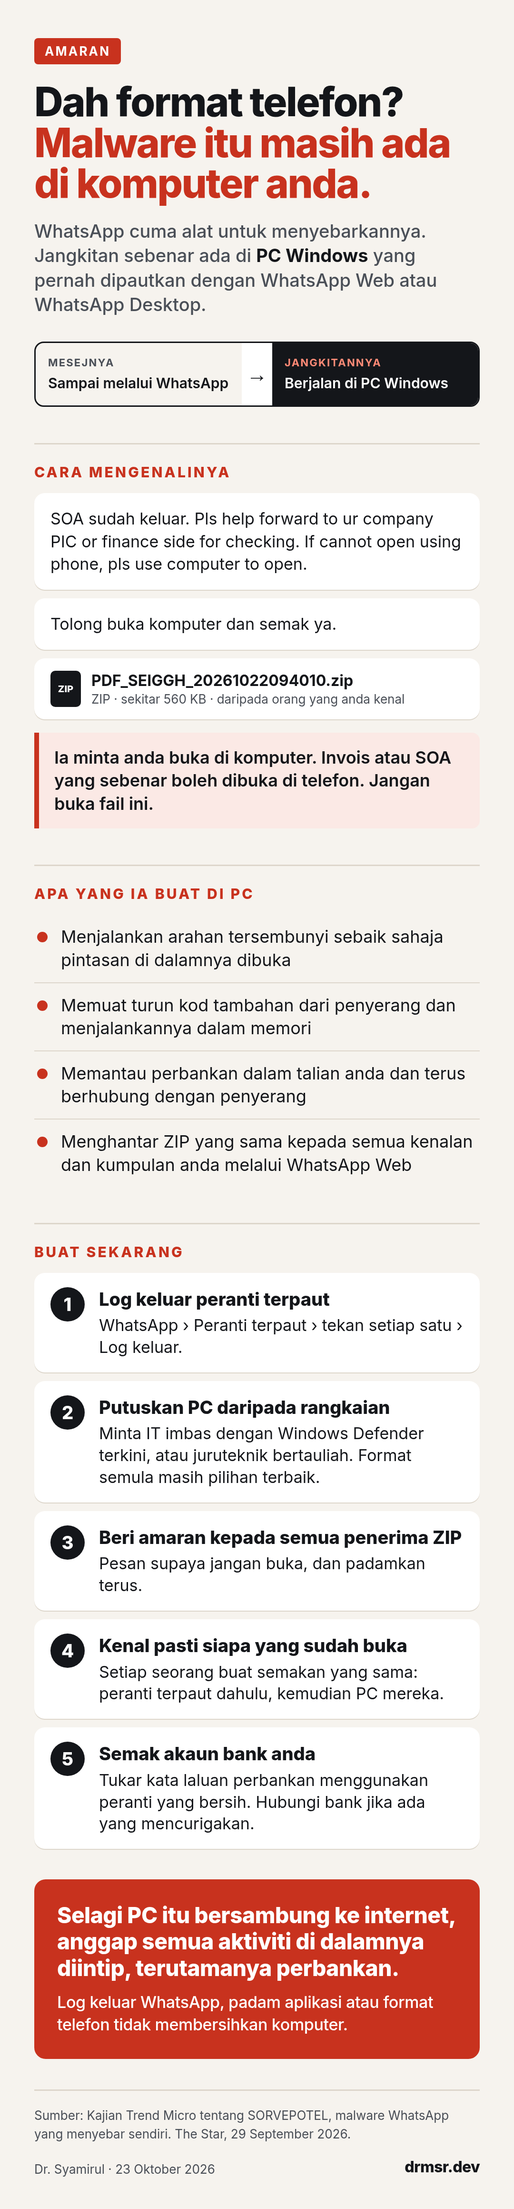
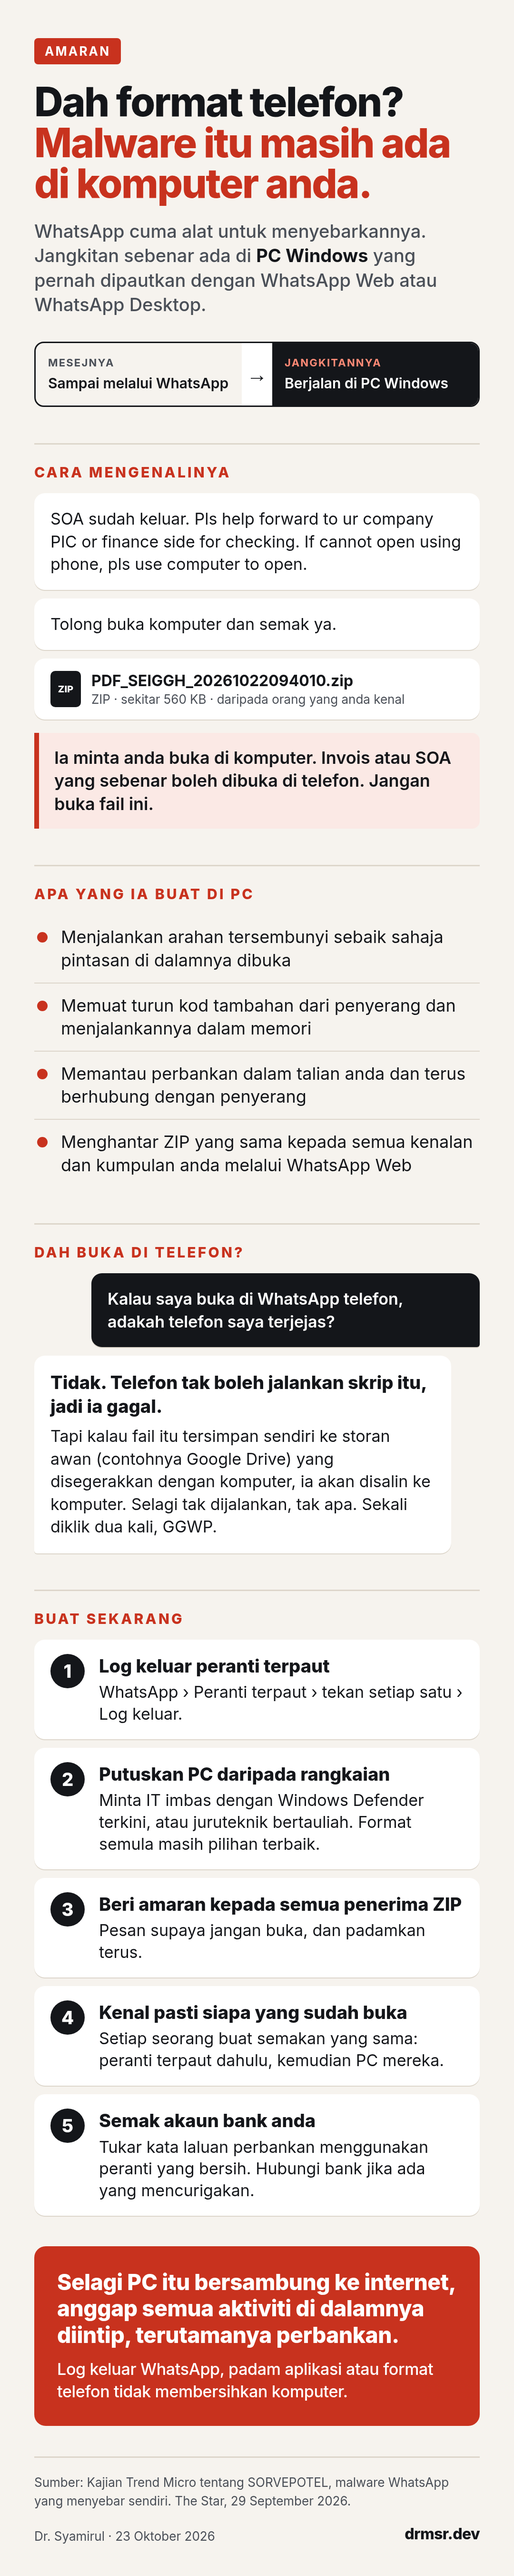
Advisory: add phone Q&A (EN + BM) and refresh infographics
Claude-Session: https://claude.ai/code/session_01UKtv761YuUTM2Gfy5BTL3m

Changed region(s): [[0.0611, 0.0, 0.9472, 0.9937], [0.825, 0.59, 0.8556, 0.6211]]

diff --git a/content/posts/whatsapp-zip-malware-advisory.md b/content/posts/whatsapp-zip-malware-advisory.md
@@ -11,7 +11,7 @@ thumbnail: null
 ---
 
 # WhatsApp ZIP malware: it lives on your computer, not your phone
-![Advisory infographic: WhatsApp ZIP malware lives on the Windows computer, with five steps to take now](https://drmsr.dev/images/advisory/whatsapp-zip-malware-en.png)
+![Advisory infographic: WhatsApp ZIP malware lives on the Windows computer, with five steps to take now](https://drmsr.dev/images/advisory/whatsapp-zip-malware-en.png?v=2)
 
 ## If you opened the ZIP, cleaning your phone does not fix it
 
@@ -37,9 +37,11 @@ Security researchers call this malware SORVEPOTEL. Inside the ZIP is a Windows s
 
 Then it spreads. If WhatsApp Web or WhatsApp Desktop is signed in on that computer, the malware uses it to send the same ZIP to every contact and group. This is why the message seems to come from people you trust: their computers sent it without them knowing.
 
-## What about my phone?
+## Q&A: I opened it in WhatsApp on my phone. Is my phone affected?
 
-Opening the ZIP on a phone does nothing by itself, because the harmful part only runs on Windows. The danger is a computer that has WhatsApp Web or WhatsApp Desktop linked to your account. One catch: if you saved the file from your phone to a cloud drive, a laptop that syncs that drive can still receive it.
+No. The file will fail on a phone, because a phone cannot run that script. It arrives disguised as a ZIP, a VBS file or a PDF.
+
+But if your phone saved it automatically to a cloud drive (Google Drive, for example) and your computer syncs with that drive, the file gets copied onto your computer. As long as nobody runs it there, nothing happens. Once someone double-clicks it on the computer, it is too late, and everything above applies.
 
 ## What to do now
 
@@ -51,7 +53,7 @@ Opening the ZIP on a phone does nothing by itself, because the harmful part only
 
 ## Bahasa Melayu
 
-![Infografik amaran: malware ZIP WhatsApp kekal di komputer Windows, dengan lima langkah yang perlu diambil](https://drmsr.dev/images/advisory/whatsapp-zip-malware-ms.png)
+![Infografik amaran: malware ZIP WhatsApp kekal di komputer Windows, dengan lima langkah yang perlu diambil](https://drmsr.dev/images/advisory/whatsapp-zip-malware-ms.png?v=2)
 
 ## Kalau anda sudah buka fail ZIP itu, bersihkan telefon sahaja tidak cukup
 
@@ -77,9 +79,11 @@ Penyelidik keselamatan menamakan malware ini SORVEPOTEL. Di dalam ZIP itu ada sa
 
 Selepas itu ia menyebarkan dirinya. Jika WhatsApp Web atau WhatsApp Desktop sedang log masuk di komputer itu, malware ini menggunakannya untuk menghantar ZIP yang sama kepada semua kenalan dan kumpulan. Sebab itulah mesej ini nampak seperti datang daripada orang yang anda percaya: komputer merekalah yang menghantarnya tanpa mereka sedar.
 
-## Telefon saya macam mana?
+## Soal jawab: Saya buka di WhatsApp telefon. Adakah telefon saya terjejas?
 
-Membuka ZIP di telefon tidak memberi kesan dengan sendirinya, kerana bahagian yang berbahaya hanya berjalan di Windows. Yang berisiko ialah komputer yang ada WhatsApp Web atau WhatsApp Desktop dipautkan ke akaun anda. Cuma satu perkara: kalau fail itu anda simpan dari telefon ke storan awan, komputer riba yang menyegerakkan storan itu masih boleh menerimanya.
+Tidak. Fail itu akan gagal di telefon, kerana telefon tidak boleh menjalankan skrip tersebut. Ia datang menyamar sebagai fail ZIP, fail VBS atau PDF.
+
+TAPI, kalau fail itu tersimpan secara automatik ke storan awan (contohnya Google Drive) dan komputer anda menyegerak dengan storan itu, fail tersebut akan disalin ke komputer anda. Selagi tiada siapa yang menjalankannya, tak apa. Tapi sebaik sahaja ia diklik dua kali di komputer, GGWP.
 
 ## Apa perlu dibuat sekarang
 
